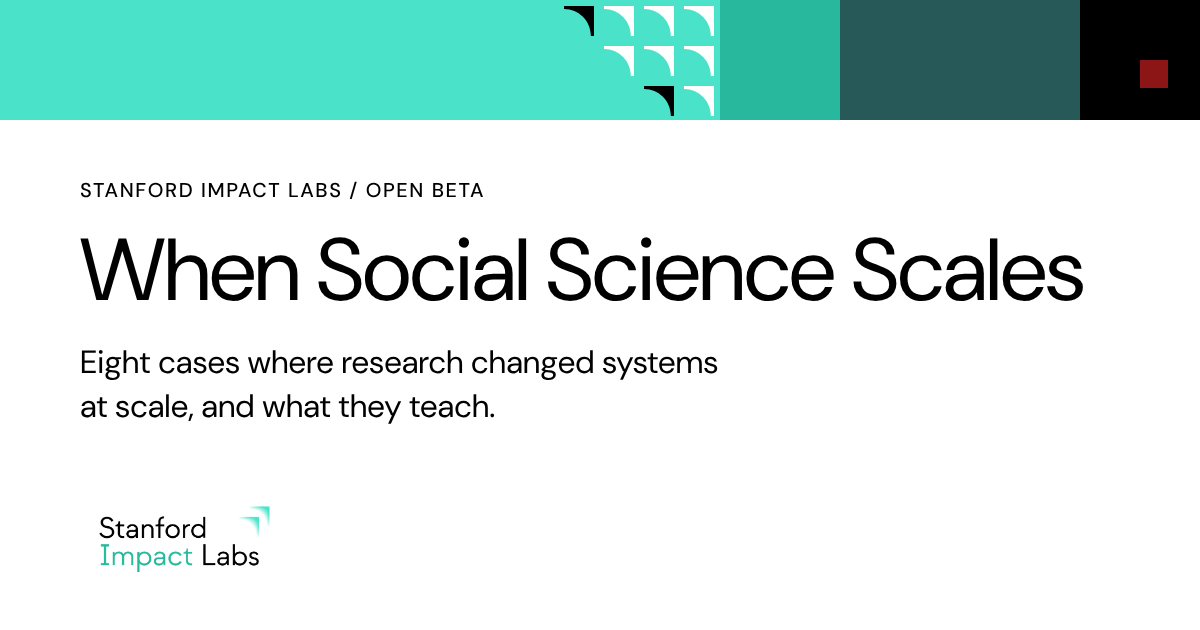
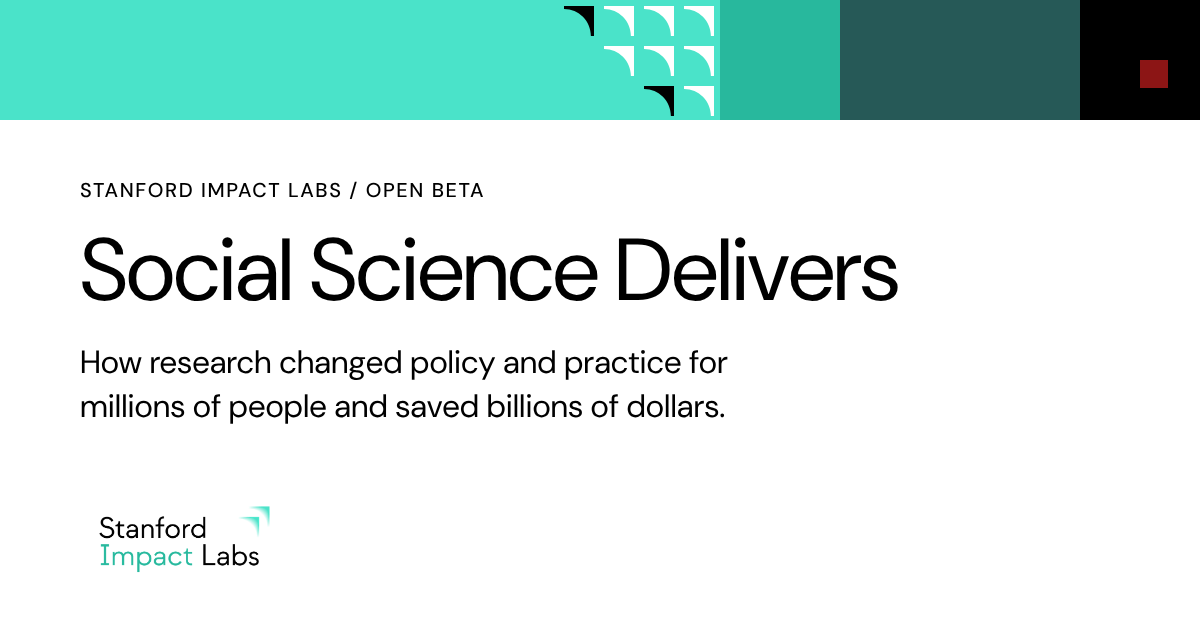
Rename the site to Social Science Delivers
- New name and subtitle in lib/site.ts, page drafts, README and comments
- Regenerated public/og.png with the new name and subtitle

Claude-Session: https://claude.ai/code/session_01PC7yU1tkQY6UdDkMc5uRUR

Changed region(s): [[0.0617, 0.3619, 0.925, 0.4825], [0.0617, 0.5429, 0.6167, 0.6032], [0.0617, 0.6333, 0.6167, 0.6635]]

diff --git a/lib/site.ts b/lib/site.ts
@@ -1,7 +1,8 @@
 // Site settings, in one place. Content files never hardcode any of these.
 
-export const SITE_NAME = 'When Social Science Scales';
-export const TAGLINE = 'Eight cases where research changed systems at scale, and what they teach.';
+export const SITE_NAME = 'Social Science Delivers';
+export const TAGLINE =
+  'How research changed policy and practice for millions of people and saved billions of dollars.';
 export const ORG = 'Stanford Impact Labs';
 export const ORG_URL = 'https://impact.stanford.edu/';
 /** SIL's mission line. Reuse it verbatim. */
@@ -18,7 +19,7 @@ export const BASE_PATH: string = (
 export const SITE_URL = 'https://michael-149.github.io/big-wins-microsite';
 
 /** Open Graph and social card image (public/og.png, 1200 by 630), as an absolute URL. */
-export const OG_IMAGE = { url: `${SITE_URL}/og.png`, width: 1200, height: 630, alt: `${SITE_NAME}: eight cases where research changed systems at scale` };
+export const OG_IMAGE = { url: `${SITE_URL}/og.png`, width: 1200, height: 630, alt: `${SITE_NAME}. ${TAGLINE}` };
 
 /** Set at release, not at build time, so a rebuild does not change it. */
 export const LAST_UPDATED = '2026-11-20';

diff --git a/lib/metadata.ts b/lib/metadata.ts
@@ -2,7 +2,7 @@ import type { Metadata } from 'next';
 import { NOINDEX, OG_IMAGE, SITE_NAME, absoluteUrl } from './site';
 import { stripCites } from './markdown';
 
-/** Title "<page> | When Social Science Scales" (from the layout template), description, Open Graph. */
+/** Title "<page> | Social Science Delivers" (from the layout template), description, Open Graph. */
 export function pageMetadata({ title, description, path }: { title?: string; description: string; path: string }): Metadata {
   const desc = stripCites(description).replace(/\s+/g, ' ').trim();
   const fullTitle = title ? `${title} | ${SITE_NAME}` : SITE_NAME;

diff --git a/app/globals.css b/app/globals.css
@@ -1,4 +1,4 @@
-/* When Social Science Scales: site styles on the Stanford Impact Labs 2026 09
+/* Social Science Delivers: site styles on the Stanford Impact Labs 2026 09
    design system. Tokens live in tokens.css; every color, space and radius here
    comes from them. Tailwind v4 supplies only its base reset (preflight); the
    site uses no utility classes (see README to enable them on the tokens). */

diff --git a/content/pages/about.md b/content/pages/about.md
@@ -2,8 +2,8 @@
 slug: about
 title: "About this project"
 shortTitle: "About"
-description: "Why Stanford Impact Labs built When Social Science Scales, where it is going, who made it, how to cite it and how we handle corrections."
-lead: "When Social Science Scales collects cases where social science research helped change systems that touch millions of lives, and asks what they teach. It is a beta: illustrative, unfinished and meant to grow with help from people who know these fields better than we do."
+description: "Why Stanford Impact Labs built Social Science Delivers, where it is going, who made it, how to cite it and how we handle corrections."
+lead: "Social Science Delivers collects cases where social science research changed policy and practice for millions of people, and asks what they teach. It is a beta: illustrative, unfinished and meant to grow with help from people who know these fields better than we do."
 lastReviewed: "2026-11-20"
 sources:
   - id: sil-home
@@ -38,7 +38,7 @@ The public value of the life sciences is easy to point to: a vaccine, a cancer d
 
 That makes it hard for funders, university leaders and the public to judge what social science is worth, and hard for researchers to learn from work that has reached millions of people. Such stories are usually told one at a time, often by the people involved. A collection that sets several cases side by side, in one format and with every source linked, makes the patterns easier to see and easier to argue with.
 
-These eight cases show what social science can look like when it changes systems at scale. They are not the only kind of success. Most useful social science improves one program, informs one decision or builds knowledge that others use years later, and the large changes described here rest on many contributions of that kind.
+These eight cases show some of the largest changes social science research has helped bring about. They are not the only kind of success. Most useful social science improves one program, informs one decision or builds knowledge that others use years later, and the large changes described here rest on many contributions of that kind.
 
 ## Where this is going
 
@@ -70,11 +70,11 @@ This is a beta, released in November 2026, and we will keep revising it. Each pa
 
 To cite the collection:
 
-Stanford Impact Labs. (2026). *When Social Science Scales* (beta). https://michael-149.github.io/big-wins-microsite/
+Stanford Impact Labs. (2026). *Social Science Delivers* (beta). https://michael-149.github.io/big-wins-microsite/
 
 To cite a single case or lesson, use its title and page address, and add the date you read it, since pages change during the beta. For example:
 
-Stanford Impact Labs. (2026). Moving to Opportunity and CMTO. In *When Social Science Scales* (beta). Retrieved [date], from [page address].
+Stanford Impact Labs. (2026). Moving to Opportunity and CMTO. In *Social Science Delivers* (beta). Retrieved [date], from [page address].
 
 ## Corrections
 

diff --git a/content/pages/considered.md b/content/pages/considered.md
@@ -3,7 +3,7 @@
 # The content team replaces this file (DESIGN-DECISION section 14, item 5).
 slug: considered
 title: "Cases we considered"
-description: "[draft] The long list of candidate cases behind When Social Science Scales, grouped by domain."
+description: "[draft] The long list of candidate cases behind Social Science Delivers, grouped by domain."
 lead: "[draft] Before choosing eight cases, we gathered a long list of candidates where social science research appeared to have helped change a policy, program or market at scale. Here is that list."
 note: "[draft] The long list began with 67 candidates. We merged duplicates, removed items outside social science or without a documented research contribution, and added two candidates that our source notes named but the list missed."
 sources: []

diff --git a/content/pages/home.md b/content/pages/home.md
@@ -5,9 +5,9 @@
 # the build fails otherwise. Stakes from cases still in draft carry a
 # "[draft]" label so their figures are not mistaken for checked ones.
 slug: home
-title: "When Social Science Scales"
-description: "[draft] Eight cases where research changed systems at scale, and what they teach, from Stanford Impact Labs."
-heroTitle: "When Social Science Scales"
+title: "Social Science Delivers"
+description: "[draft] How research changed policy and practice for millions of people and saved billions of dollars. From Stanford Impact Labs."
+heroTitle: "Social Science Delivers"
 heroLead: "[draft] From housing vouchers to vaccine markets, these cases trace who did the research, how it reached the people who made decisions, and what changed."
 stakes:
   - value: "31%"

diff --git a/content/pages/contribute.md b/content/pages/contribute.md
@@ -2,7 +2,7 @@
 slug: contribute
 title: "Help build this collection"
 shortTitle: "Contribute"
-description: "Suggest a case we missed, flag an error, share an effort that stalled or propose a new topic area for When Social Science Scales."
+description: "Suggest a case we missed, flag an error, share an effort that stalled or propose a new topic area for Social Science Delivers."
 lead: "This collection is a beta and a starting point. Eight cases cannot cover what social science has done, and an outside view gets things wrong. Tell us what we missed, what we got wrong and where we should look next."
 lastReviewed: "2026-11-20"
 sources: []

diff --git a/README.md b/README.md
@@ -1,6 +1,6 @@
-# When Social Science Scales
+# Social Science Delivers
 
-Eight cases where research changed systems at scale, and what they teach. A static site published by Stanford Impact Labs (SIL), built with Next.js 16 (static export) on the Stanford Impact Labs 2026 09 design system.
+How research changed policy and practice for millions of people and saved billions of dollars. A static site published by Stanford Impact Labs (SIL), built with Next.js 16 (static export) on the Stanford Impact Labs 2026 09 design system.
 
 Live (open beta): https://michael-149.github.io/big-wins-microsite/
 
